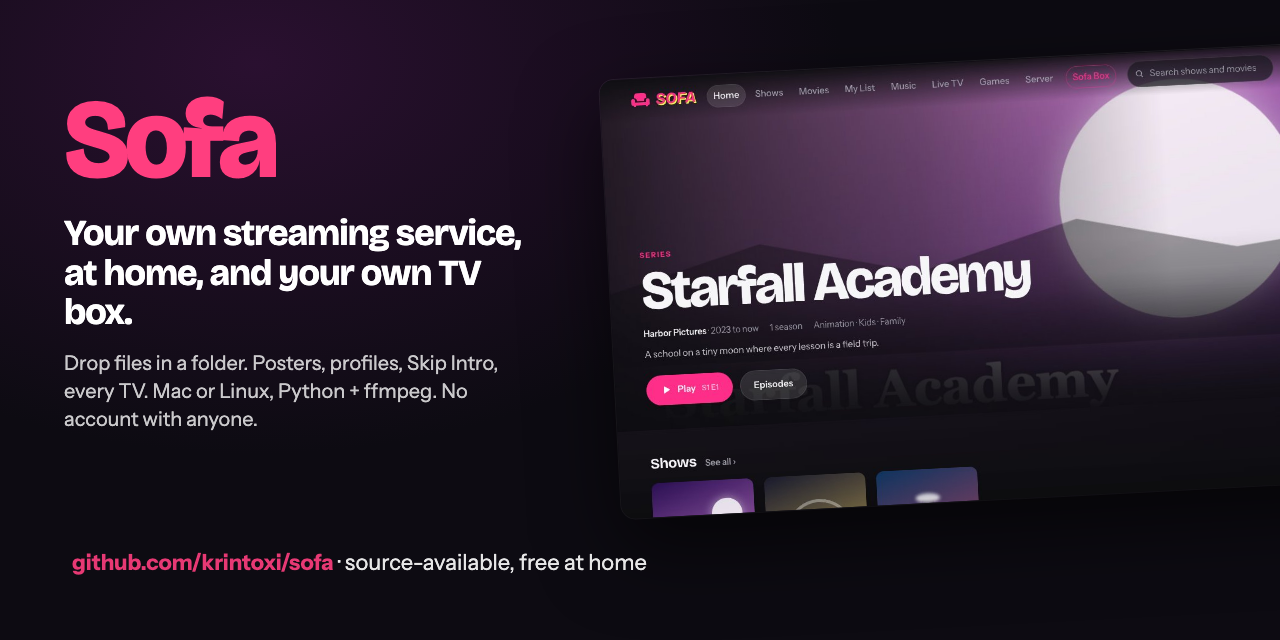
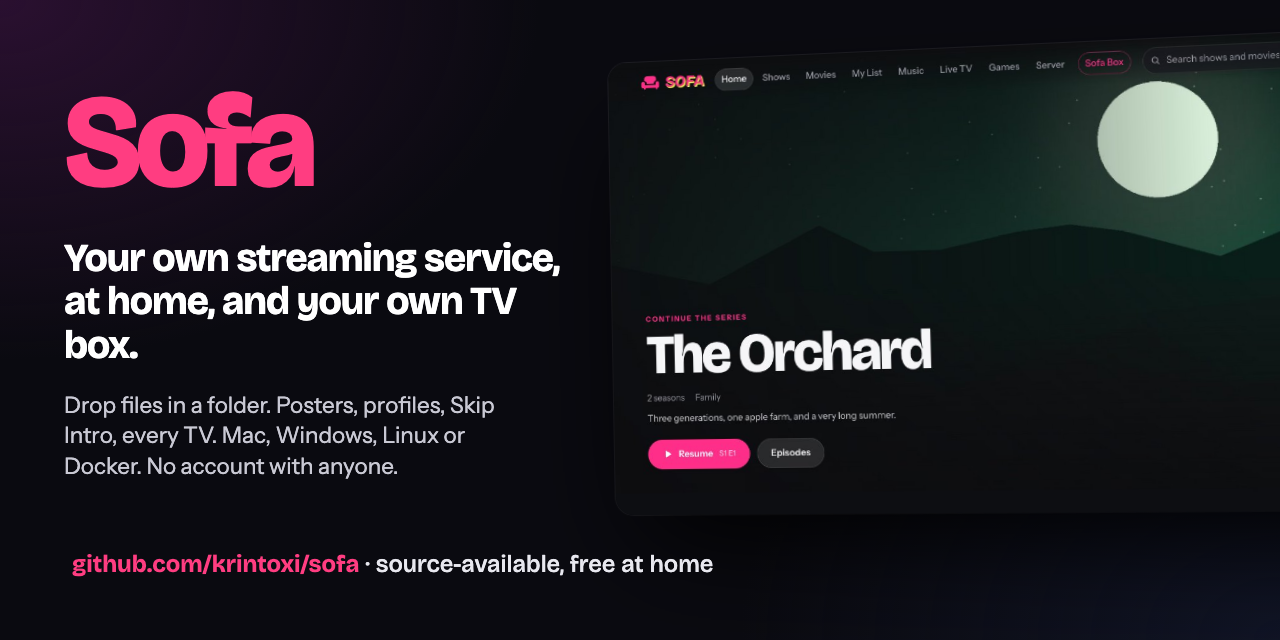
Docs: the launch drafts and the social preview say Windows and Docker (Sofa 1.5.10, Sofa Box OS 1.1.84), and the reasons for making it are left for the owner to write

diff --git a/docs/launch/dev-article.md b/docs/launch/dev-article.md
@@ -10,19 +10,19 @@ once at the end. **Who posts:** the owner, from their own account.
 
 # I built a home media server with nothing but Python's standard library and ffmpeg
 
-I wanted my kids to find their cartoons on the TV without me naming files for an hour first, and I didn't want an account with a company in the middle of my living room. Jellyfin is excellent and I'd have used it; every part of it was bigger than my house needed. So I wrote Sofa, and the constraint that shaped it was: **Python's standard library and ffmpeg, nothing else to install.** It's source-available (PolyForm Noncommercial), free to run at home; I'll come back to that at the end. This is what the constraint did to the design.
+`<YOUR OWN REASON FOR MAKING IT, TWO OR THREE SENTENCES: what you wanted at home and why the existing servers weren't it. Only what's true for you.>` Jellyfin is excellent; every part of it was bigger than one house needed. So Sofa has one constraint that shaped everything else: **Python's standard library and ffmpeg, nothing else to install.** It's source-available (PolyForm Noncommercial), free to run at home; I'll come back to that at the end. This is what the constraint did to the design.
 
 ## One process, no framework
 
-Sofa is `http.server` with a thread pool, SQLite through `sqlite3`, and a web app in one `app.js` with no build step. That sounds like a toy and I expected to outgrow it. I haven't: a 7,500-file library goes to the browser as about 100 KB gzipped, long pages draw as you scroll, and a 2011 iMac serves four screens at once. The win isn't speed. It's that `curl -fsSL …/get-sofa.sh | sh` is the whole install on a Mac or a Linux box, and an update is a swap of one folder that rolls back by itself if the new version falls over three times in its first minute.
+Sofa is `http.server` with a thread pool, SQLite through `sqlite3`, and a web app in one `app.js` with no build step. That sounds like a toy. It has held up: a 7,500-file library goes to the browser as about 100 KB gzipped, long pages draw as you scroll, and a 2011 iMac serves four screens at once. The win isn't speed. It's that `curl -fsSL …/get-sofa.sh | sh` is the whole install on a Mac or a Linux box (Windows gets an installer that brings its own Python and ffmpeg, and Docker a `compose.yml`), and an update is a swap of one folder that rolls back by itself if the new version falls over three times in its first minute.
 
 ## The Inbox
 
-The feature people use most is a folder. Drop `the.sopranos.s01e01.1080p.bluray.x265-GROUP.mkv` in `~/Entertainment/Inbox` and, thirty seconds after it stops changing, it's `Shows/The Sopranos/Season 1/The Sopranos S01E01 Pilot.mkv`, with the subtitle file that came with it renamed alongside and the poster that was in the folder attached. `sofa/naming.py` is the ugliest file in the repository on purpose: scene names, `Show 2x05`, `[Group] Anime - 05 [1080p]`, daily shows by date, `Movie CD1/CD2`, phone videos by timestamp, collections of several movies in one folder. Each rule came from a real file and has a test. The rule above all the others: **nothing is ever deleted.** Leftovers go to a Deleted folder you empty when you're sure; anything it can't read goes to Needs Review with a note.
+The feature people use most is a folder. Drop `the.sopranos.s01e01.1080p.bluray.x265-GROUP.mkv` in `~/Entertainment/Inbox` and, thirty seconds after it stops changing, it's `Shows/The Sopranos/Season 1/The Sopranos S01E01 Pilot.mkv`, with the subtitle file that came with it renamed alongside and the poster that was in the folder attached. `sofa/naming.py` is the ugliest file in the repository on purpose: scene names, `Show 2x05`, `[Group] Anime - 05 [1080p]`, daily shows by date, `Movie CD1/CD2`, phone videos by timestamp, collections of several movies in one folder. Each rule has a test with the ugly name beside the right answer. The rule above all the others: **nothing is ever deleted.** Leftovers go to a Deleted folder you empty when you're sure; anything it can't read goes to Needs Review with a note.
 
 ## Adapting formats as they play
 
-MP4 with H.264 and AAC plays everywhere, so that's the target. An MKV with the same streams inside is repackaged on the fly (`-c copy`, milliseconds). HEVC, 10-bit, DTS and the old codecs are transcoded as they play, and a background job converts them to MP4 so the next play is instant. The part I had to get right was deciding *how* to encode: on a Mac, Sofa times `h264_videotoolbox` against `libx264` on first run, because some older Macs' hardware encoder draws lines across the picture, and it never uses it there. On Linux it's x264 in software for now; hardware transcoding there is on the list, not in the code. If a file converts slower than it plays (a 1080p HEVC episode on that 2011 iMac), the player waits once for a few seconds of buffer instead of stalling every few seconds, then drops the picture a size, and remembers that for the next file like it.
+MP4 with H.264 and AAC plays everywhere, so that's the target. An MKV with the same streams inside is repackaged on the fly (`-c copy`, milliseconds). HEVC, 10-bit, DTS and the old codecs are transcoded as they play, and a background job converts them to MP4 so the next play is instant. The part that had to be right was deciding *how* to encode: on a Mac, Sofa times `h264_videotoolbox` against `libx264` on first run, because some older Macs' hardware encoder draws lines across the picture, and it never uses it there. On Linux it's x264 in software for now; hardware transcoding there is on the list, not in the code. If a file converts slower than it plays (a 1080p HEVC episode on that 2011 iMac), the player waits once for a few seconds of buffer instead of stalling every few seconds, then drops the picture a size, and remembers that for the next file like it.
 
 ## Skip Intro without a cloud
 
@@ -38,7 +38,7 @@ Remote access is where self-hosted projects usually say "set up a reverse proxy"
 
 ## The box: a kiosk that is a TV
 
-Then I wanted the TV itself to be mine. Sofa Box OS is a Raspberry Pi image that's a whole TV box: Raspberry Pi OS Lite, one Chromium under `cage` (a Wayland kiosk compositor), and every streaming app is a tab of that one browser. A Python agent steers it over the DevTools protocol: it opens apps as tabs, brings the home screen back on the Home key, parks the pointer, injects a bar for Back and Home into pages that have none, and watches memory so a Pi 3 with 1 GB doesn't fall over. Video never goes through the browser: `mpv` plays it on the Pi's video chip, with its own on-screen display written in Lua so the time line, Skip Intro and the volume all stay inside the part of the picture every TV shows.
+Then the TV itself. Sofa Box OS is a Raspberry Pi image that's a whole TV box: Raspberry Pi OS Lite, one Chromium under `cage` (a Wayland kiosk compositor), and every streaming app is a tab of that one browser. A Python agent steers it over the DevTools protocol: it opens apps as tabs, brings the home screen back on the Home key, parks the pointer, injects a bar for Back and Home into pages that have none, and watches memory so a Pi 3 with 1 GB doesn't fall over. Video never goes through the browser: `mpv` plays it on the Pi's video chip, with its own on-screen display written in Lua so the time line, Skip Intro and the volume all stay inside the part of the picture every TV shows.
 
 The phone remote is a page the box serves. Setup is a QR code on the TV; with no cable the box makes its own Wi-Fi, the phone joins it through a captive portal, and hands over the home Wi-Fi. A Fire TV remote pairs by holding Home. A controller works everywhere, as a remote and in the games.
 
@@ -48,14 +48,14 @@ A TV box that updates itself needs to be careful about what it updates to. Boxes
 
 ## What was hard
 
-Three things, none of them code I'm proud of. First, **first boot on a Raspberry Pi**: Raspberry Pi Imager's "set a user" option runs a tool on first start that switches the system to a text console, which killed the TV screen; it took booting the card's root file system in a container on a Mac to see it and to prove the fix without burning the owner's evenings. Second, **a Pi 3 is slow in ways a laptop can't fake**: Chrome's CPU throttle doesn't slow painting or decoding, so the speed work had to be measured with counters (how many times a row re-rasters per key press), not milliseconds, and then checked from the box's own reports. Third, **saying only what's true**: with one tester and one Pi, the capabilities page marks every line Works, Beta or Untested on hardware, with the test or the report that says so. It's less exciting than a feature list. It's also the only page I'd trust from a project this young.
+Three things. First, **first boot on a Raspberry Pi**: Raspberry Pi Imager's "set a user" option runs a tool on first start that switches the system to a text console, which killed the TV screen; it took booting the card's root file system in a container on a Mac to see it and to prove the fix without an evening of SD cards for every try. Second, **a Pi 3 is slow in ways a laptop can't fake**: Chrome's CPU throttle doesn't slow painting or decoding, so the speed work had to be measured with counters (how many times a row re-rasters per key press), not milliseconds, and then checked from the box's own reports. Third, **saying only what's true**: with one tester and one Pi, the capabilities page marks every line Works, Beta or Untested on hardware, with the test or the report that says so. It's less exciting than a feature list. It's also the only page I'd trust from a project this young.
 
 ## Tests instead of a team
 
-There's one of me, so there are about 400 tests, and GitHub runs them on every push with real ffmpeg, real mpv, a real headless Chrome and that Pebble server. The box's games are played by a headless Chromium in CI. It's the only way one person ships a media server and a TV operating system and sleeps.
+There's one maintainer, so there are more than 600 tests, and GitHub runs them on every push with real ffmpeg, real mpv, a real headless Chrome and that Pebble server, on Linux and on Windows. The box's games are played by a headless Chromium in CI. It's the only way one maintainer ships a media server and a TV operating system and sleeps.
 
 ## What it isn't
 
-No native Windows server (Docker Desktop is the way in), a Docker image that is days old, no hardware transcoding on Linux, no app in any TV store, no tuner or DVR, no photos, no plugins. And it's source-available (PolyForm Noncommercial 1.0.0) rather than open source: free to use, read, change and share for noncommercial purposes, while I keep the right to sell boxes with it; versions before 1.5.4 are MIT. I wrote a comparison with Jellyfin, Plex, Emby and Kodi that tries hard to be fair: it ends with "pick Jellyfin if you need Windows, Docker or a store app", and I mean it.
+No hardware transcoding on Linux, a Windows installer and a Docker image that are days old (the installer has run on GitHub's Windows machines, the image on one Linux VM), no app in any TV store, no tuner or DVR, no photos, no plugins. And it's source-available (PolyForm Noncommercial 1.0.0) rather than open source: free to use, read, change and share for noncommercial purposes, while I keep the right to sell boxes with it; versions before 1.5.4 are MIT. The repository has a comparison with Jellyfin, Plex, Emby and Kodi that tries hard to be fair: it says "pick Jellyfin, Plex or Emby if you need a NAS package, an app from the TV's own store, or hardware transcoding on a Linux box", and I mean it.
 
 If you try it, the thing I most want to hear is what broke on your machine: https://github.com/krintoxi/sofa

diff --git a/docs/launch/reddit-selfhosted.md b/docs/launch/reddit-selfhosted.md
@@ -12,32 +12,34 @@ late January 2027. Read the subreddit's sidebar on the day; the moderators revis
 **Attach:** `docs/images/demo.gif` (or the three screenshots `docs/images/home.jpg`, `docs/images/show.jpg`,
 `docs/images/box-home.jpg` where a comment can't carry a GIF).
 
-**Ask feedback on:** the one-line install on Linux; the Inbox's naming on real file names; what a Pi 4, a Pi 5, a
-Fire TV stick or a Roku actually do; whether the comparison page is fair.
+**Ask feedback on:** a week of Linux or Docker as a daily server; the Inbox's naming on real file names; what a Pi 4, a
+Pi 5, a Fire TV stick, a Roku or a Windows PC actually do; whether the comparison page is fair.
 
 ---
 
-**Sofa: a small self-hosted media server for a household, not a homelab (Mac or Linux, Python + ffmpeg, no account anywhere). Source-available.**
+**Sofa: a small self-hosted media server for a household, not a homelab (Mac, Windows, Linux or Docker; no account anywhere). Source-available.**
 
-I've been building Sofa for my own house and it's at the point where I'd like strangers to break it. It's source-available (PolyForm Noncommercial), free to run and change at home; more on that at the end.
+I make Sofa, and it's at the point where I'd like strangers to break it. It's source-available (PolyForm Noncommercial), free to run and change at home; more on that at the end.
 
-The idea: you drop files in a folder and they come out named, filed and with posters, and every TV, phone and laptop in the house gets a streaming-service-looking library of your own stuff. It runs on an old Mac or a Linux box with Python and ffmpeg and nothing else to install (one line in Terminal), and there's no account with me or anyone.
+The idea: you drop files in a folder and they come out named, filed and with posters, and every TV, phone and laptop in the house gets a library of your own stuff that looks like a streaming service. It's one process, Python's standard library and ffmpeg, and there's no account with me or anyone.
 
 What it does that I haven't seen done quite this way:
-- an Inbox that files download-style names (`the.show.s01e01.1080p.mkv` → The Show, Season 1, Episode 1), attaches subtitles and posters that came along, and never deletes anything;
-- the TV signs in by showing a code you approve on your phone; your phone is then the remote for any screen;
+- an Inbox that files download-style names (`the.show.s01e01.1080p.mkv` → The Show, Season 1, Episode 1), attaches the subtitles and posters that came along, and never deletes anything;
+- the TV signs in by showing a code you approve on your phone; the phone is then the remote for any screen;
 - profiles, Kids profiles (family titles only), 4-digit PINs, guests by QR code on your Wi-Fi;
-- Skip Intro / Recap / Credits worked out from chapters or by listening to neighbouring episodes;
+- Skip Intro, Recap and Credits worked out from chapters, or by comparing the sound of neighbouring episodes;
 - remote access built in: your own domain or a free DuckDNS name, a Let's Encrypt certificate it gets and renews, UPnP, a check from outside; or Tailscale;
 - a share link that gives friends a view-only copy with just the titles you picked;
-- a "Work offline" switch and a list of everything that touches the internet, each with its own switch.
+- a "Work offline" switch, and a list of everything that touches the internet, each with its own switch.
 
-There's also Sofa Box OS, a Raspberry Pi card that turns a Pi into a TV box with Sofa built in, the streaming apps, games and your phone as the remote. That part is beta: it has run on exactly one Pi 3 B+, mine.
+There's also Sofa Box OS: a Raspberry Pi card (or a USB stick for a PC) that makes a TV box with Sofa built in, your streaming apps, fourteen small games and your phone as the remote. That part is beta: it has run on exactly one Pi 3 B+, mine.
 
-Honest limits: Mac, Linux or Docker (the image is new and has run on one Linux VM so far), no native Windows, no hardware transcoding on Linux. No app in any TV store: on a TV you use its browser, sideload my Fire TV app or Roku channel (built by CI, never run on a real device by anyone who wrote it down), or use the Pi box. It's weeks old and made by one person, with about 400 automated tests doing the rest.
+Install: one line on a Mac or Linux, `docker compose up -d` (amd64 and arm64, host networking), or an installer on Windows.
+
+Honest limits: no hardware transcoding on Linux yet (x264 in software; Macs use VideoToolbox). No app in any TV store: on a TV you use its browser, sideload the Fire TV app or the Roku channel (both built by CI, and nobody has written down a run on a real device yet), or use the Pi box. Docker has run on one Linux VM and the Windows installer only on GitHub's Windows machines. The repo is a month old with one maintainer, and about 600 automated tests run on every push.
 
 The licence: PolyForm Noncommercial 1.0.0. Free to run, read, change and share at home; selling it, or boxes with it, needs a licence from me. That isn't open source by the OSI definition and I'm not going to pretend otherwise; I chose it so I can sell pre-built boxes without someone else selling "Sofa" boxes first. If that's a dealbreaker, fair enough, and Jellyfin is excellent.
 
-What I'd love: someone to run the one-line install on Linux and tell me where it breaks; anyone with a Pi 4 or 5, a Fire TV stick or a Roku to try the beta parts; and opinions on the comparison page I wrote against Jellyfin, Plex, Emby and Kodi, which tries to be fair.
+What I'd love: someone to run it on Linux or in Docker for a week and tell me where it breaks; anyone with a Pi 4 or 5, a Fire TV stick, a Roku or a Windows PC to try the parts I can't; and opinions on the comparison with Jellyfin, Plex, Emby and Kodi in the repo, which tries to be fair.
 
-GitHub: https://github.com/krintoxi/sofa (the README has a 30-second demo). What works today, with the evidence for each line: docs/capabilities.md. What's missing: docs/roadmap.md.
+GitHub: https://github.com/krintoxi/sofa (the README opens with a 40-second demo and the install lines). What works today, with the evidence for each line: docs/capabilities.md. What's missing: docs/roadmap.md.

diff --git a/docs/launch/show-hn.md b/docs/launch/show-hn.md
@@ -19,20 +19,20 @@ question once, calmly, and link the comparison. **Who posts:** the owner, from t
 
 ## First comment
 
-Sofa is a self-hosted media server I built for my family. It's Python's standard library and ffmpeg, nothing else: no framework, no database server, no build step for the web app, one process. It's source-available (PolyForm Noncommercial), free at home; I'll come back to that.
+Sofa is a self-hosted media server for a household. It's Python's standard library and ffmpeg, nothing else: no framework, no database server, no build step for the web app, one process. It's source-available (PolyForm Noncommercial), free at home; I'll come back to that.
 
-Why it exists: I wanted my kids to find their cartoons on the TV without me naming files for an hour first, and I didn't want an account with a company in the middle of my living room. Jellyfin is excellent; every part of it was bigger than my house needed.
+Why it exists: `<YOUR OWN REASON, TWO OR THREE SENTENCES. HN's Show HN page asks for "how and why"; only what's true for you.>`
 
 How it's built, the parts I think are interesting:
-- The Inbox: a folder watcher that turns scene-release names, anime names, daily shows by date and camera files into a tidy library (`sofa/naming.py`, about 60 tests of ugly names). Nothing is ever deleted.
+- The Inbox: a folder watcher that turns scene-release names, anime names, daily shows by date and camera files into a tidy library (`sofa/naming.py`, with a table of ugly names as its tests). Nothing is ever deleted.
 - Skip Intro without a service: chapters when the file has them, otherwise chromaprint fingerprints of neighbouring episodes to find the shared stretch.
-- Playback: MP4 served as it is; anything else repackaged or transcoded as it plays, and converted in the background so it's instant next time; hardware encoding on Macs after Sofa times the encoders on that machine (some old Macs' encoders draw lines; it checks).
-- TV sign-in: the TV shows a code, your phone approves it; the same pairing gives the Fire TV app and the Roku channel their tokens. Your phone is then the remote.
-- Remote access built in: ACME against Let's Encrypt (tested in CI against Pebble), DuckDNS, UPnP, an outside check; over the internet it answers only HTTPS and only signed in.
-- Sofa Box OS: a Raspberry Pi image that's a whole TV box. One Chromium in cage with every app as a tab, steered over the DevTools protocol by a Python agent; mpv for video with its own Lua OSD; the phone remote is a page the box serves; a stable and a testing update channel.
+- Playback: MP4 served as it is; anything else repackaged or transcoded as it plays, and converted in the background so the next play is instant. On a Mac it times the hardware encoder against x264 first, because some old Macs' encoders draw lines across the picture.
+- TV sign-in: the TV shows a code, your phone approves it; the same pairing gives the Fire TV app and the Roku channel their tokens. The phone is then the remote.
+- Remote access built in: an ACME client against Let's Encrypt (tested in CI against Pebble), DuckDNS, UPnP, a check from outside. Over the internet it answers only HTTPS and only signed in.
+- Sofa Box OS: a Raspberry Pi image that's a whole TV box. One Chromium in cage with every app as a tab, steered over the DevTools protocol by a Python agent; mpv for video with its own Lua OSD; the phone remote is a page the box serves.
 
 The licence: PolyForm Noncommercial 1.0.0, not an OSI licence. Free to use, read, change and share for noncommercial purposes; I keep the right to sell boxes with it. Versions before 1.5.4 are MIT.
 
-What's untested, so nobody is surprised: Mac, Linux or Docker (the image has run on one Linux VM; no native Windows; no hardware transcoding on Linux); no app in any TV store (sideload, or the box); the box has run on one Pi 3 B+, mine; the Fire TV app and the Roku channel are built by CI and <STATE: run on a real device on DATE / not yet>; the DRM apps on the box <STATE>. The whole list, with what the evidence is for each line: docs/capabilities.md. A comparison with Jellyfin, Plex, Emby and Kodi that tries to be fair: docs/compare.md.
+What's untested, so nobody is surprised: it runs on a Mac, Linux, Windows (an installer; so far only run on GitHub's Windows machines) and in Docker (one Linux VM so far); no hardware transcoding on Linux; no app in any TV store (sideload, or the box); the box has run on one Pi 3 B+, mine; the Fire TV app and the Roku channel `<ran on a real device on DATE / are built by CI and not yet run on a real device>`. Every line of that, with its evidence: docs/capabilities.md. A comparison with Jellyfin, Plex, Emby and Kodi that tries to be fair: docs/compare.md.
 
 https://github.com/krintoxi/sofa
